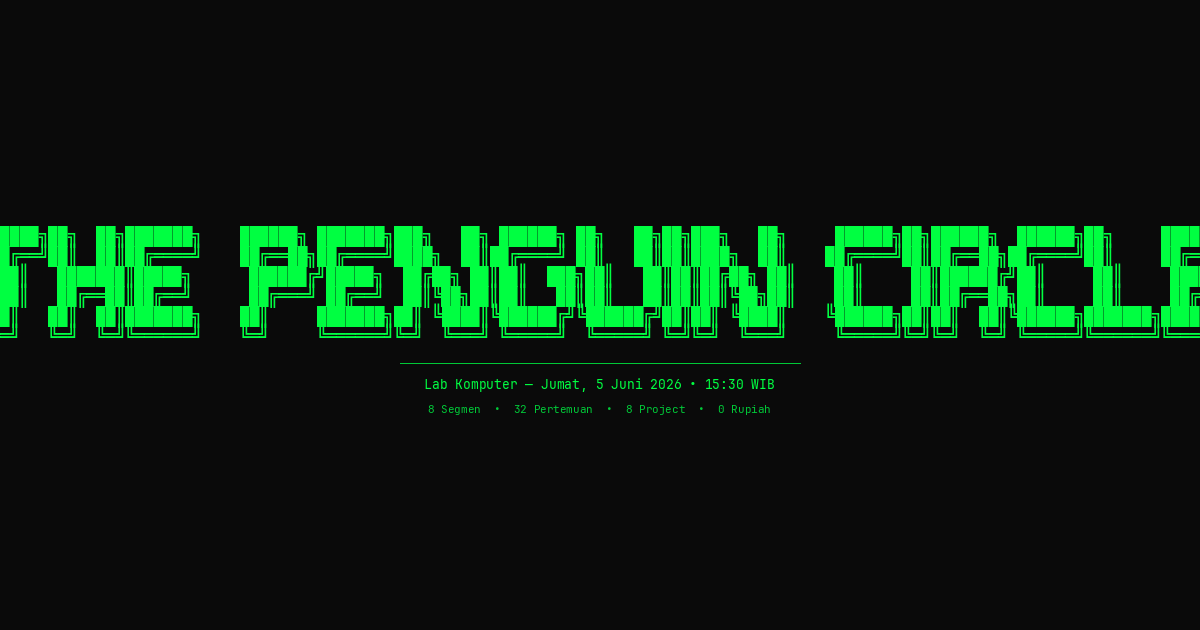
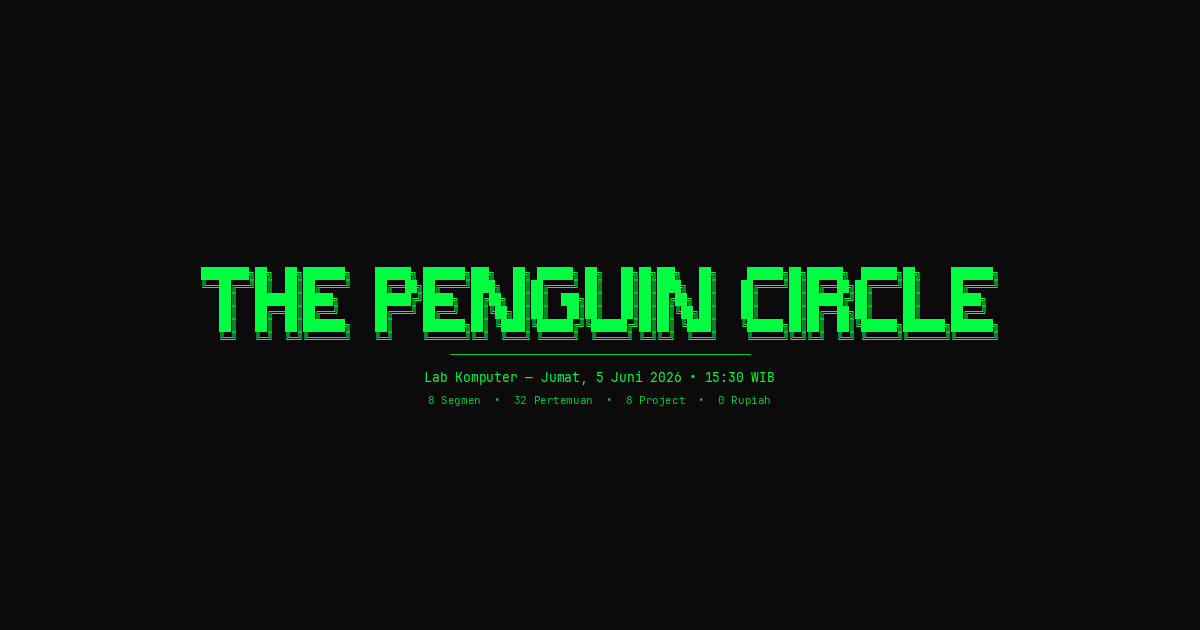
fix: ASCII art alignment sync between HTML and OG image, same base_x

Changed region(s): [[0.0, 0.3317, 1.0, 0.5429], [0.3392, 0.573, 0.6475, 0.6635]]

diff --git a/index.html b/index.html
@@ -982,11 +982,11 @@
       <pre class="ascii-penguin" aria-hidden="true">
 ████████╗██╗  ██╗███████╗    ██████╗ ███████╗███╗   ██╗ ██████╗ ██╗   ██╗██╗███╗   ██╗     ██████╗██╗██████╗  ██████╗██╗     ███████╗
 ╚══██╔══╝██║  ██║██╔════╝    ██╔══██╗██╔════╝████╗  ██║██╔════╝ ██║   ██║██║████╗  ██║    ██╔════╝██║██╔══██╗██╔════╝██║     ██╔════╝
-   ██║   ███████║█████╗      ██████╔╝█████╗  ██╔██╗ ██║██║  ███╗██║   ██║██║██╔██╗ ██║    ██║     ██║██████╔╝██║     ██║     ███╗
+   ██║   ███████║█████╗      ██████╔╝█████╗  ██╔██╗ ██║██║  ███╗██║   ██║██║██╔██╗ ██║    ██║     ██║██████╔╝██║     ██║     █████╗
    ██║   ██╔══██║██╔══╝      ██╔═══╝ ██╔══╝  ██║╚██╗██║██║   ██║██║   ██║██║██║╚██╗██║    ██║     ██║██╔══██╗██║     ██║     ██╔══╝
    ██║   ██║  ██║███████╗    ██║     ███████╗██║ ╚████║╚██████╔╝╚██████╔╝██║██║ ╚████║    ╚██████╗██║██║  ██║╚██████╗███████╗███████╗
-   ╚═╝   ╚═╝  ╚═╝╚══════╝    ╚═╝     ╚══════╝╚═╝  ╚═══╝ ╚═════╝  ╚═════╝  ╚═╝╚═╝  ╚═══╝     ╚═════╝╚═╝╚═╝  ╚═╝ ╚═════╝╚══════╝╚══════╝
-      </pre>
+   ╚═╝   ╚═╝  ╚═╝╚══════╝    ╚═╝     ╚══════╝╚═╝  ╚═══╝ ╚═════╝  ╚═════╝ ╚═╝╚═╝  ╚═══╝     ╚═════╝╚═╝╚═╝  ╚═╝ ╚═════╝╚══════╝╚══════╝
+      </pre></pre>
       <p class="pain-point">Bingung mulai belajar coding? Sendirian gampang nyerah?</p>
       <p class="tagline" style="margin-top:4px;">
         Forum belajar <strong>CLI, Git, &amp; AI coding</strong> gratis untuk mahasiswa &mdash; <strong>dari 0</strong> sampai bisa bikin <strong>website &amp; aplikasi mobile</strong> pake AI. Langsung praktek, tanpa PPT, tanpa biaya.

diff --git a/make-og.py b/make-og.py
@@ -1,0 +1,62 @@
+from PIL import Image, ImageDraw, ImageFont
+
+W, H = 1200, 630
+img = Image.new('RGBA', (W, H), (10, 10, 10, 255))
+draw = ImageDraw.Draw(img)
+
+# ─── GANTI FONT PATH KALO BERBEDA ───
+FONT_ASC = '/usr/share/fonts/TTF/JetBrainsMonoNerdFontMono-Bold.ttf'
+FONT_TXT = '/usr/share/fonts/TTF/JetBrainsMonoNLNerdFont-Regular.ttf'
+
+# ─── SESUAIKAN UKURAN ───
+SIZE_ASC = 10    # ukuran ASCII logo
+SIZE_SUB = 13    # ukuran subtitle
+SIZE_STA = 11    # ukuran stats
+LINE_H = 13      # jarak antar baris ASCII
+
+# ─── WARNA ───
+GREEN = (0, 255, 65)
+GREEN_DIM = (0, 200, 55)
+
+# ─── ASCII LOGO ───
+ASCII = """\
+████████╗██╗  ██╗███████╗    ██████╗ ███████╗███╗   ██╗ ██████╗ ██╗   ██╗██╗███╗   ██╗     ██████╗██╗██████╗  ██████╗██╗     ███████╗
+╚══██╔══╝██║  ██║██╔════╝    ██╔══██╗██╔════╝████╗  ██║██╔════╝ ██║   ██║██║████╗  ██║    ██╔════╝██║██╔══██╗██╔════╝██║     ██╔════╝
+   ██║   ███████║█████╗      ██████╔╝█████╗  ██╔██╗ ██║██║  ███╗██║   ██║██║██╔██╗ ██║    ██║     ██║██████╔╝██║     ██║     █████╗
+   ██║   ██╔══██║██╔══╝      ██╔═══╝ ██╔══╝  ██║╚██╗██║██║   ██║██║   ██║██║██║╚██╗██║    ██║     ██║██╔══██╗██║     ██║     ██╔══╝
+   ██║   ██║  ██║███████╗    ██║     ███████╗██║ ╚████║╚██████╔╝╚██████╔╝██║██║ ╚████║    ╚██████╗██║██║  ██║╚██████╗███████╗███████╗
+   ╚═╝   ╚═╝  ╚═╝╚══════╝    ╚═╝     ╚══════╝╚═╝  ╚═══╝ ╚═════╝  ╚═════╝ ╚═╝╚═╝  ╚═══╝     ╚═════╝╚═╝╚═╝  ╚═╝ ╚═════╝╚══════╝╚══════╝"""
+
+SUB = 'Lab Komputer — Jumat, 5 Juni 2026 • 15:30 WIB'
+STATS = '8 Segmen  •  32 Pertemuan  •  8 Project  •  0 Rupiah'
+
+# ─── GAMBAR ───
+f_asc = ImageFont.truetype(FONT_ASC, SIZE_ASC)
+f_sub = ImageFont.truetype(FONT_TXT, SIZE_SUB)
+f_sta = ImageFont.truetype(FONT_TXT, SIZE_STA)
+
+lines = ASCII.split('\n')
+
+# Cari lebar maksimum (baris terlebar) — biar alignment konsisten
+max_tw = max(draw.textbbox((0, 0), l, font=f_asc)[2] - draw.textbbox((0, 0), l, font=f_asc)[0] for l in lines)
+base_x = (W - max_tw) // 2
+
+th = len(lines) * LINE_H
+sy = (H - th) // 2 - 10
+
+y = sy
+for l in lines:
+    draw.text((base_x, y), l, fill=GREEN, font=f_asc)
+    y += LINE_H
+
+sep_y = y + 10
+draw.line([(W//2 - 150, sep_y), (W//2 + 150, sep_y)], fill=GREEN_DIM, width=1)
+
+bb = draw.textbbox((0, 0), SUB, font=f_sub)
+draw.text(((W - (bb[2]-bb[0]))//2, sep_y + 14), SUB, fill=GREEN, font=f_sub)
+
+bb = draw.textbbox((0, 0), STATS, font=f_sta)
+draw.text(((W - (bb[2]-bb[0]))//2, sep_y + 38), STATS, fill=GREEN_DIM, font=f_sta)
+
+img.save('og-image.png')
+print("✅ og-image.png saved — ubah SIZE_ASC, LINE_H dll. lalu jalankan ulang")
